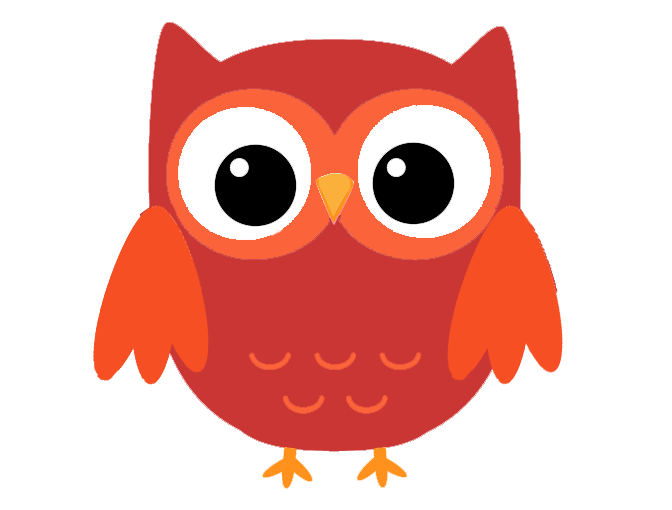
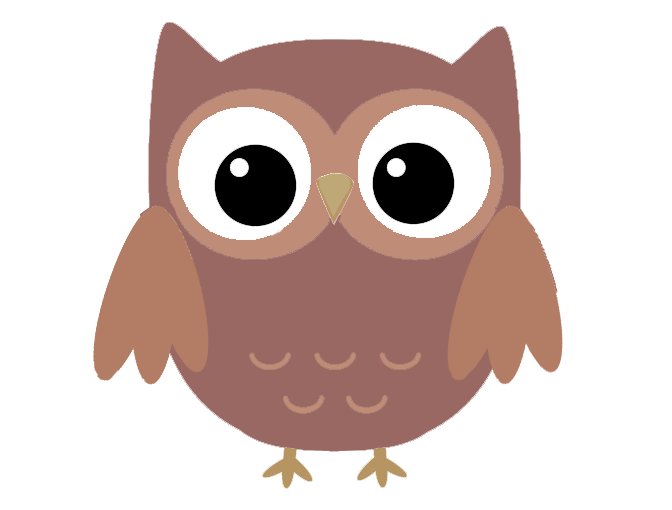
Removes small owl and updates assets

diff --git a/src/app/owl.component.ts b/src/app/owl.component.ts
@@ -3,16 +3,10 @@ import { Component, Input, OnInit } from '@angular/core';
 @Component({
   selector: 'owl-img',
   template: `
-    <img id="owl-{{type}}" src="../assets/{{mood}}-owl.png" />
+    <img id="owl-avatar" src="../assets/{{mood}}-owl.png" />
   `,
   styles: [`
     #owl-avatar {
-      height: 50px;
-      position: absolute;
-      top: 282px;
-      left: 607px;
-    }
-    #owl-talking {
       height: 250px;
       position: relative;
       top: 15px;
@@ -24,5 +18,4 @@ import { Component, Input, OnInit } from '@angular/core';
 
 export class OwlComponent {
   @Input() mood: string;
-  @Input() type: string;
 }

diff --git a/src/app/speech-bubble.component.ts b/src/app/speech-bubble.component.ts
@@ -4,7 +4,7 @@ import { Component, Input } from '@angular/core'
   selector: 'speech-bubble',
   template: `
     <div class="bubble">
-      <owl-img [mood]="owlMood" [type]="'talking'"></owl-img>
+      <owl-img [mood]="owlMood"></owl-img>
       <h4 class="dialogue">Orwell: {{dialogue}}</h4>
     </div>
   `,

diff --git a/src/app/app.component.html b/src/app/app.component.html
@@ -1,4 +1,3 @@
-<owl-img [mood]="owlMood" [type]="'avatar'"></owl-img>
 <speech-bubble [owlMood]="owlMood" [dialogue]=""></speech-bubble>
 <leaf *ngFor="let leaf of leaves"
       [x]="leaf.x"
